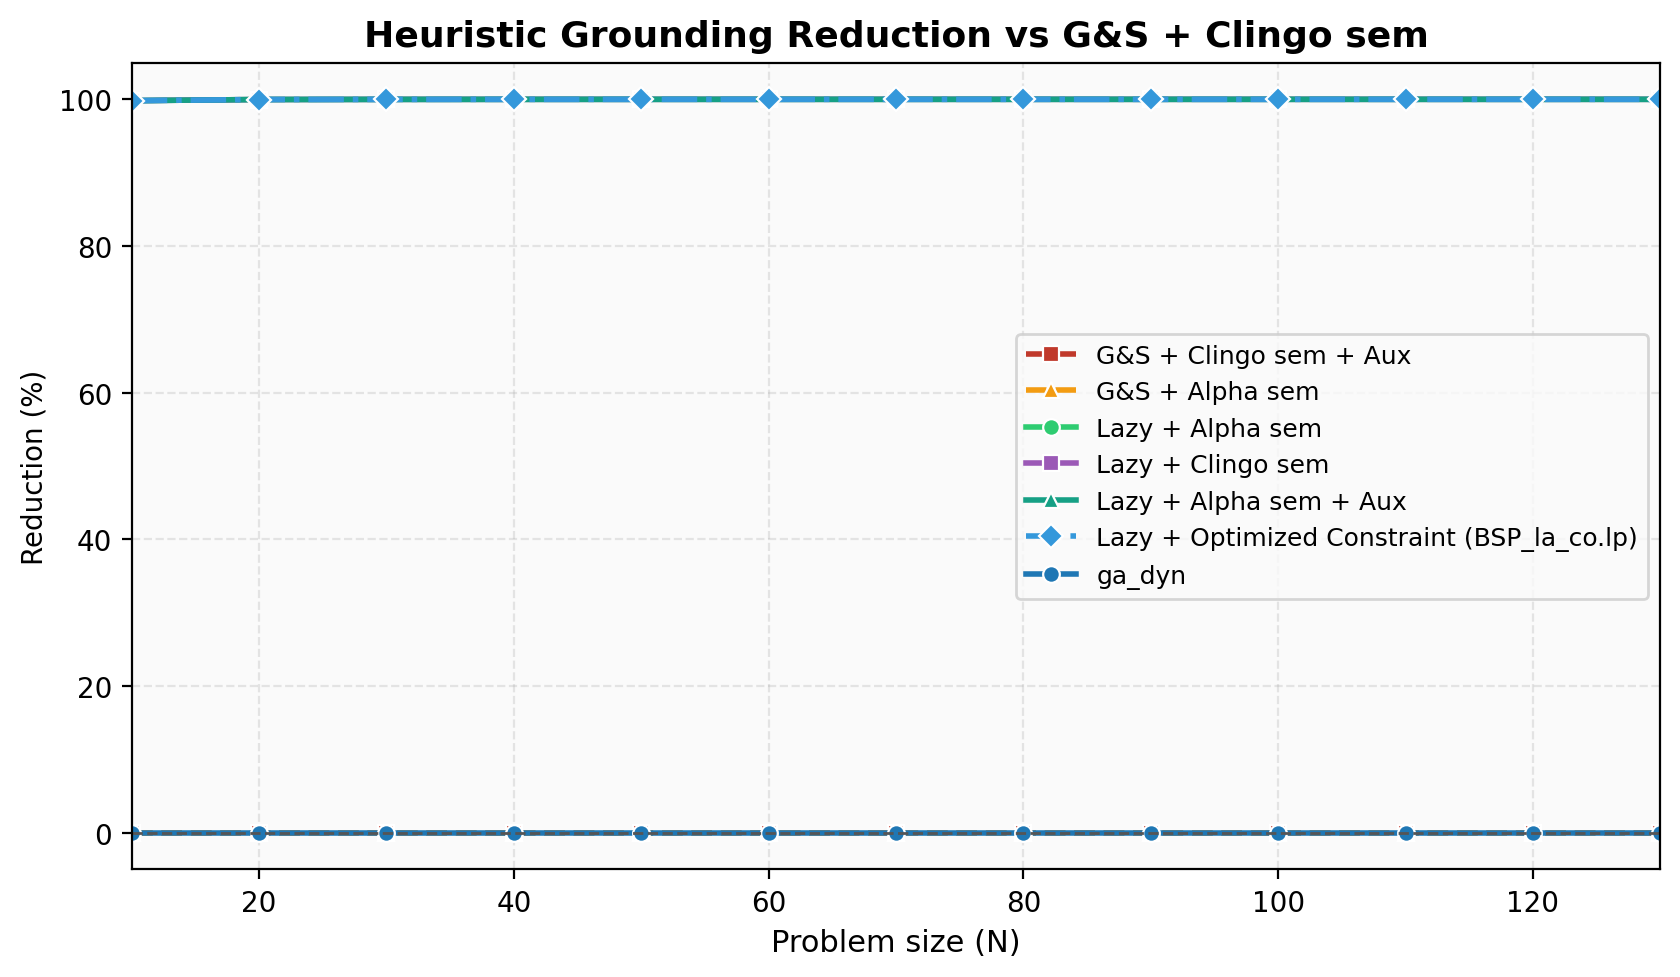
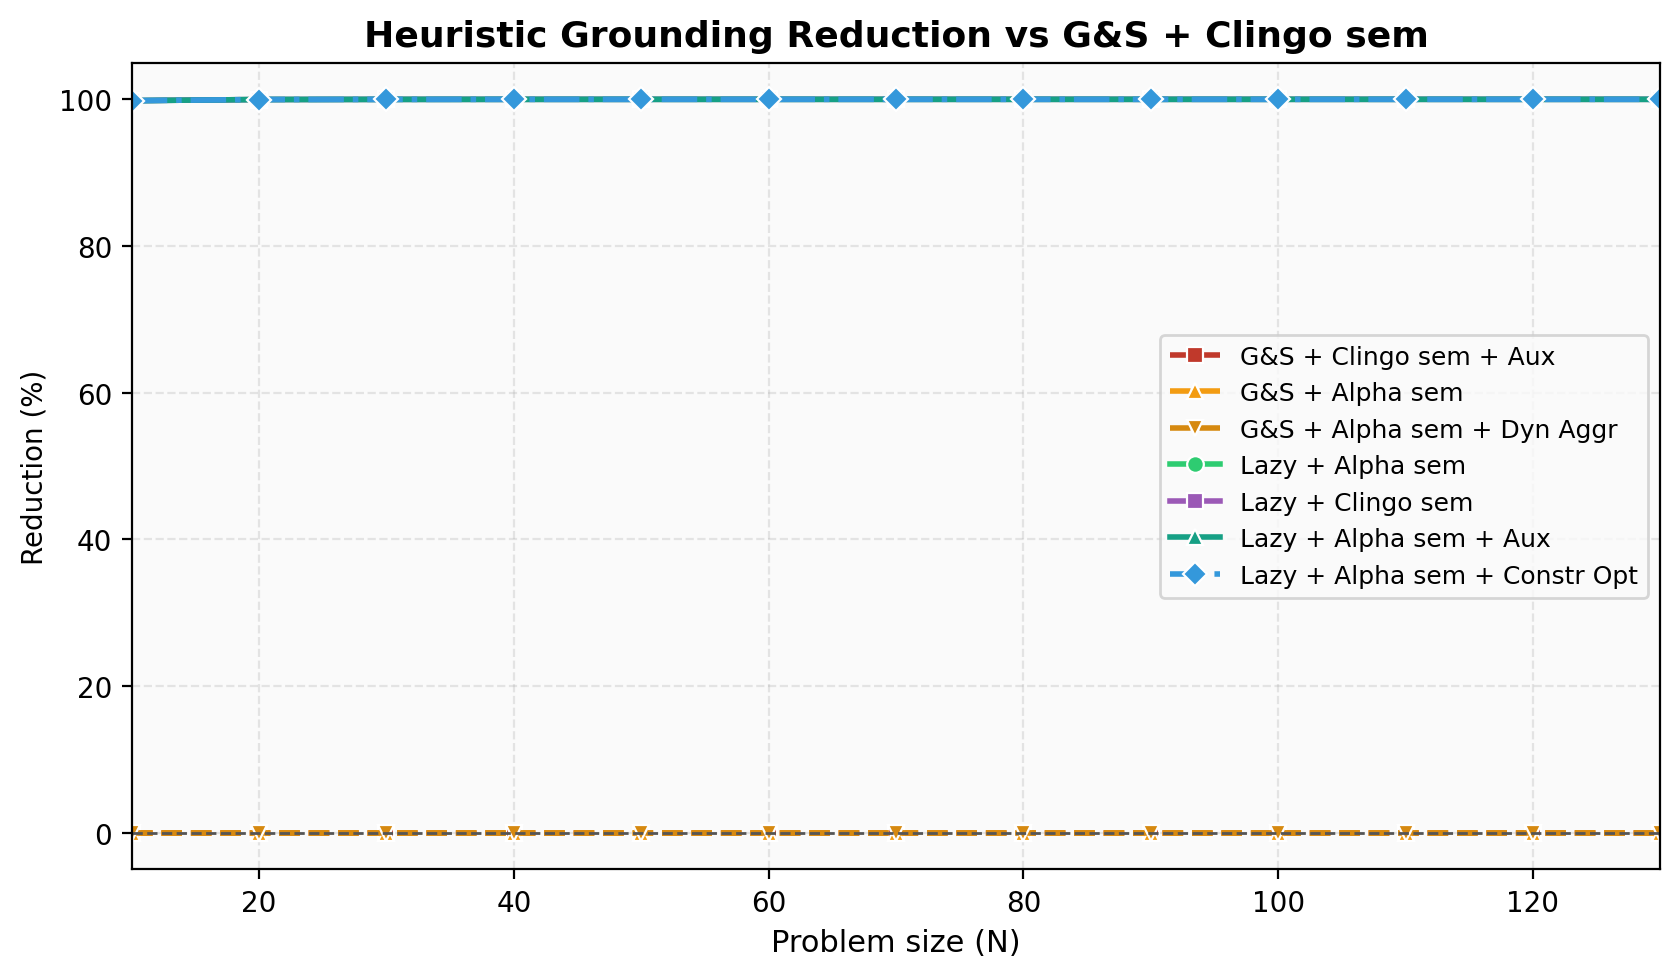
been

Changed region(s): [[0.5881, 0.3378, 0.9905, 0.6141], [0.0929, 0.8291, 0.9905, 0.8598]]

diff --git a/test_folder/tools/gen_graphs.py b/test_folder/tools/gen_graphs.py
@@ -232,15 +232,17 @@ BSP_THEME = {
         "gc": "G&S + Clingo sem",
         "gc_aux": "G&S + Clingo sem + Aux",
         "ga": "G&S + Alpha sem",
+        "ga_dyn": "G&S + Alpha sem + Dyn Aggr",
         "la": "Lazy + Alpha sem",
         "lc": "Lazy + Clingo sem",
         "la_aux": "Lazy + Alpha sem + Aux",
-        "la_co": "Lazy + Optimized Constraint (BSP_la_co.lp)",
+        "la_co": "Lazy + Alpha sem + Constr Opt",
     },
     "variant_files": {
         "gc": "encodings/BSP/BSP_gc.lp",
         "gc_aux": "encodings/BSP/BSP_gc_aux.lp",
         "ga": "encodings/BSP/BSP_ga.lp",
+        "ga_dyn": "encodings/BSP/BSP_ga_dyn.lp",
         "la": "encodings/BSP/BSP_la.lp",
         "lc": "encodings/BSP/BSP_lc.lp",
         "la_aux": "encodings/BSP/BSP_la_aux.lp",
@@ -250,6 +252,7 @@ BSP_THEME = {
         "gc":  "#E74C3C",
         "gc_aux": "#C0392B",
         "ga": "#F39C12",
+        "ga_dyn": "#D68910",
         "la":   "#2ECC71",
         "lc": "#9B59B6",
         "la_aux": "#16A085",
@@ -259,6 +262,7 @@ BSP_THEME = {
         "gc":  "o",
         "gc_aux": "s",
         "ga": "^",
+        "ga_dyn": "v",
         "la":   "o",
         "lc": "s",
         "la_aux": "^",
@@ -268,12 +272,13 @@ BSP_THEME = {
         "gc": "--",
         "gc_aux": "--",
         "ga": "--",
+        "ga_dyn": "--",
         "la": "-",
         "lc": "-",
         "la_aux": "-",
         "la_co": "-.",
     },
-    "variant_order": ["gc", "gc_aux", "ga", "la", "lc", "la_aux", "la_co"],
+    "variant_order": ["gc", "gc_aux", "ga", "ga_dyn", "la", "lc", "la_aux", "la_co"],
     "xlabel": "Problem size (N)",
     "suptitle": "BSP Benchmark: Standard vs Lazy Heuristic Grounding",
     "baseline": "gc",
@@ -1807,7 +1812,7 @@ def ensure_plot_dependencies():
         print("Matplotlib/Numpy non sono installati.")
         print("Crea un virtualenv e installa le dipendenze, ad esempio:")
         print("  python3 -m venv /tmp/clingo-graphs-venv")
-        print(f"  /tmp/clingo-graphs-venv/bin/python -m pip install -r {os.path.join(TEST_ROOT, 'tools', 'requirements.txt')}")
+        print(f"  /tmp/clingo-graphs-venv/bin/python -m pip install -r {os.path.join(TEST_ROOT, 'requirements.txt')}")
         print("  cd test_folder")
         print("  PYTHON_BIN=/tmp/clingo-graphs-venv/bin/python ./generate_graphs.sh")
         sys.exit(1)
